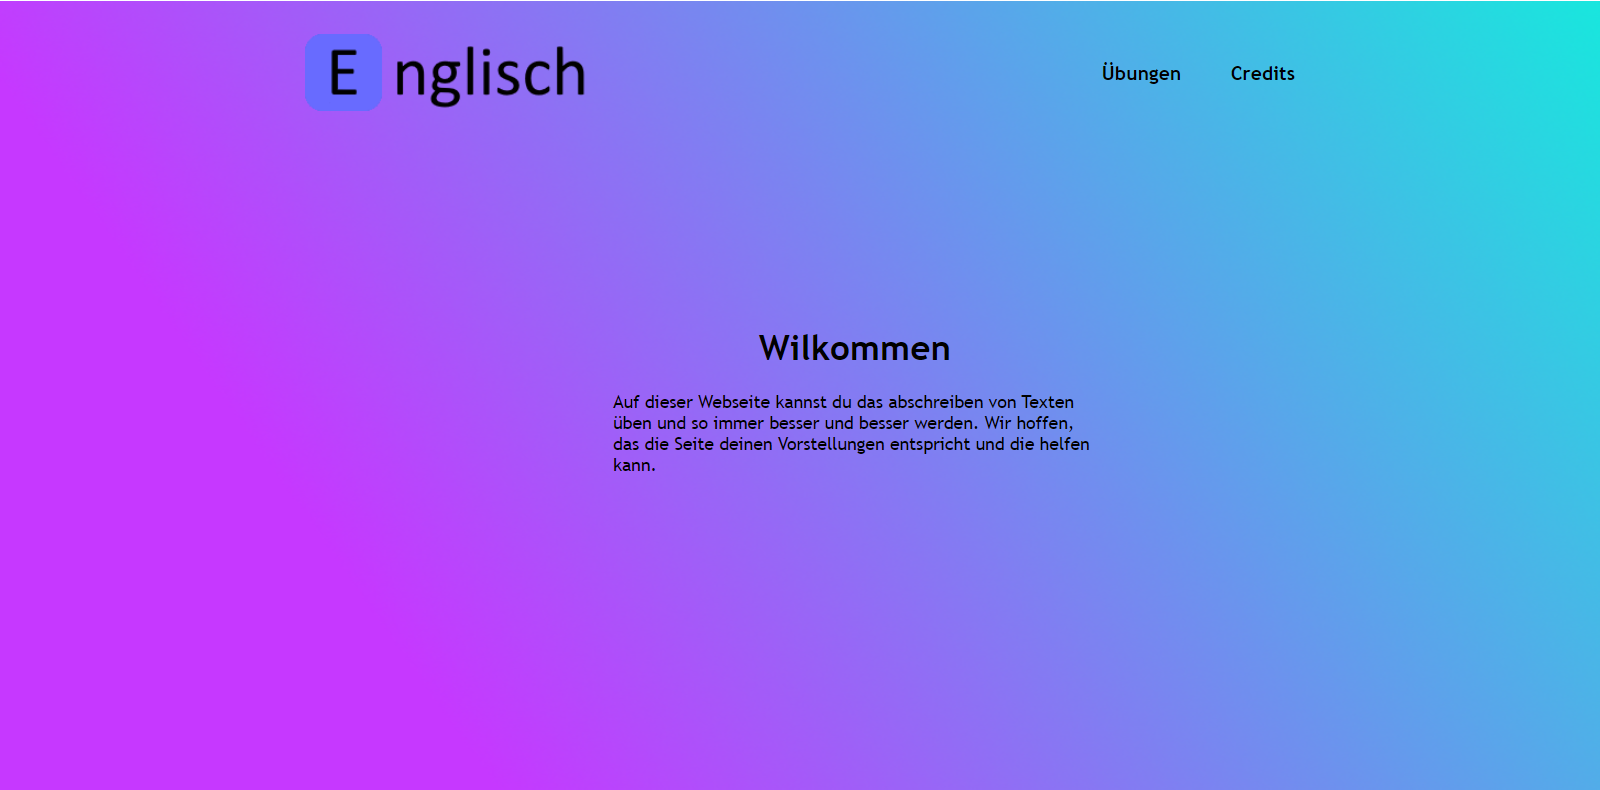
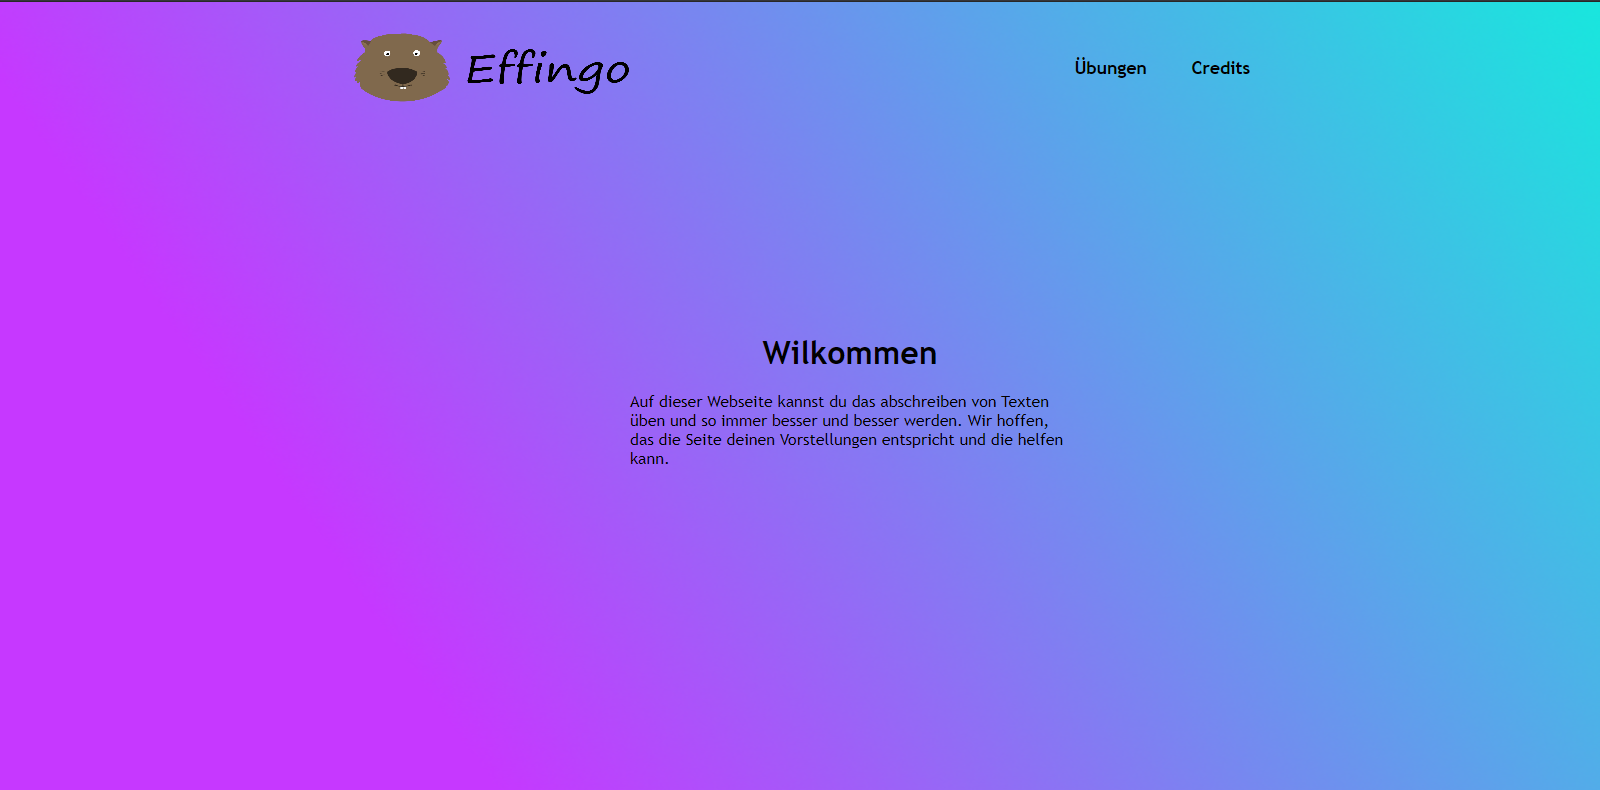
Update 2.0
Name
Logo
Handy Version
Spaceerror

diff --git a/Website/style.css b/Website/style.css
@@ -1,13 +1,26 @@
+select{
+	border:2px solid #0080FF;
+	background: transparent;	
+	margin-bottom: 40 px;
+}
+
+input{
+	border:2px solid #0080FF;
+	background: transparent;	
+}
+
+
+
 textarea{
-	  padding:10px;
-	  width:25em;
-	  font-size:2em;
-	  margin:50px auto;
-	  display:block;
-	  border-radius:10px;
-	  border:6px solid #0080FF;	  
-	  min-height:6em;
-	  background: transparent;
+	padding:10px;
+	width:25em;
+	font-size:2em;
+	margin:50px auto;
+	display:block;
+	border-radius:10px;
+	border:6px solid #0080FF;	  
+	min-height:6em;
+	background: transparent;
 }
 .win{
 	color: #00FF00;

diff --git a/Website/check.js b/Website/check.js
@@ -1,4 +1,7 @@
-window.addEventListener("keypress", Check, false);
+$(document).on('keyup', function () {
+    Check();
+});
+
 fehler = 0
 function Check(){
 	text = document.getElementById("originalText").value

diff --git a/Website/view_list_uebungen.inc.php b/Website/view_list_uebungen.inc.php
@@ -1,8 +1,42 @@
 <div class="container">
 	<div class="row col col-12">
 		<center><h1>Übungen</h1></center><br>
+
+<form method="POST">
+		<center>
+		<select name="class" id="class">
+			<option value="" disabled selected>--Klasse--</option>
+			<option value="5">Klasse 5</option>
+			<option value="6">Klasse 6</option>
+			<option value="7">Klasse 7</option>
+			<option value="8">Klasse 8</option>
+			<option value="9">Klasse 9</option>
+			<option value="10">Klasse 10</option>
+			<option value="11">Klasse 11</option>
+			<option value="12">Klasse 12</option>
+		</select>
+		</center>
+		<center><input type="submit" name="submit" value="Suchen"></center>
+</form>
+
+
 <?php
-$sql = "SELECT * FROM texts ORDER BY id;";
+$selected = 0;
+    if(isset($_POST['submit'])){
+		if(!empty($_POST['class'])) {
+			$selected = $_POST['class'];
+		}
+    }
+?>
+
+
+
+<?php
+if($selected != 0){
+	$sql = "SELECT * FROM texts WHERE class = ".$selected." ORDER BY id;";
+}else{
+	$sql = "SELECT * FROM texts ORDER BY id;";
+}
 $res = mysql_query($sql);
 while($row = mysql_fetch_assoc($res)) 
 {

diff --git a/Website/admin/view_edit_text.inc.php b/Website/admin/view_edit_text.inc.php
@@ -15,6 +15,7 @@ if(!empty($_REQUEST['id'])) {
 		// Speichern
 		$sql = "UPDATE texts SET
 			`name`    = ".m($_POST['name']).",
+			`class`    = ".intval($_POST['class']).",
 			`value`    = ".m($_POST['text'])."
 			WHERE id=".intval($id);
 
@@ -23,10 +24,11 @@ if(!empty($_REQUEST['id'])) {
 	}
 } else {
 	$id = 0;
-
+	
 	if(!empty($_POST['save'])) {
 		$sql = "INSERT INTO texts SET
 			`name`    = ".m($_POST['name']).",
+			`class`    = ".intval($_POST['class']).",
 			`value`    = ".m($_POST['text']);
 
 		if(!mysql_query($sql)) die(mysql_error());
@@ -43,6 +45,10 @@ $row = mysql_fetch_assoc($res);
 	<div class="form-group">
 		<label>Name</label>
 		<input class="form-control" type="text" name="name" value="<?php echo $row['name']; ?>">
+	</div>
+	<div class="form-group">
+		<label>Klasse</label>
+		<input class="form-control" type="number" name="class" value="<?php echo $row['class']; ?>">
 	</div>
 	<div class="form-group">
 		<label>Text</label>

diff --git a/Website/admin/index.php b/Website/admin/index.php
@@ -68,7 +68,7 @@ if($login_ok)
 		<div class="col-md-12 column">
 			<nav class="navbar navbar-default" role="navigation">
 				<div class="navbar-header">
-					 <button type="button" class="navbar-toggle" data-toggle="collapse" data-target="#bs-example-navbar-collapse-1"> <span class="sr-only">Toggle navigation</span><span class="icon-bar"></span><span class="icon-bar"></span><span class="icon-bar"></span></button> <a class="navbar-brand" href="../index.php">Englisch</a>
+					 <button type="button" class="navbar-toggle" data-toggle="collapse" data-target="#bs-example-navbar-collapse-1"> <span class="sr-only">Toggle navigation</span><span class="icon-bar"></span><span class="icon-bar"></span><span class="icon-bar"></span></button> <a class="navbar-brand" href="../index.php">Effingo</a>
 				</div>
 				
 				<div class="collapse navbar-collapse" id="bs-example-navbar-collapse-1">

diff --git a/Website/view_uebung.inc.php b/Website/view_uebung.inc.php
@@ -22,7 +22,7 @@ if(!empty($_REQUEST['id'])) {
 	
 	</div class="row col col-12">
 		<script src="https://cdnjs.cloudflare.com/ajax/libs/jquery/3.3.1/jquery.min.js"></script>
-		<textarea  id="neuerTextIn" id="no-copy-paste" autofocus placeholder="Bitte hier eingeben" ></textarea>
+		<textarea id="neuerTextIn" id="no-copy-paste" autofocus placeholder="Bitte hier eingeben" ></textarea>
 	</div>
 
 

diff --git a/Website/admin/view_list_texts.inc.php b/Website/admin/view_list_texts.inc.php
@@ -32,6 +32,7 @@ $res = mysql_query($sql);
 		<thead>
 			<tr>
 				<th>Name</th>
+				<th>Klasse</th>
 				<th>Text</th>
 				<th></th>
 			</tr>
@@ -43,6 +44,7 @@ while($row = mysql_fetch_assoc($res))
 ?>
 			<tr>
 				<td><?php echo $row['name']; ?></td>
+				<td><?php echo $row['class']; ?></td>
 				<td><?php echo $row['value']; ?></td>
 				<td>
 					<div class="btn-group">

diff --git a/Website/admin/view_home.inc.php b/Website/admin/view_home.inc.php
@@ -1,7 +1,7 @@
 <?php if(!defined("IN_ADMIN")) die; ?>
 <div class="col-md-12 column">
 	<div class="jumbotron">
-		<h1>Englisch</h1>
+		<h1>Effingo</h1>
 		<p>Willkommen im Adminisrationsbereich!</p>
 	</div>
 </div>

diff --git a/Website/index.php b/Website/index.php
@@ -6,7 +6,7 @@ require "common.inc.php";
 <html lang="de">
 <head>
 	<meta charset="utf-8">
-	<title>Englisch</title>
+	<title>Effingo</title>
 
 	<meta name="author" content="Sebastian Drebenstedt">
 	

diff --git a/Website/view_credits.inc.php b/Website/view_credits.inc.php
@@ -6,7 +6,7 @@
 		<p>Felix Heydick</p><br>
 		<h3>Programmierung<br>und Design:</h3>
 		<p>Sebastian Drebenstedt</p><br>
-		<h3>Logo</h3>
+		<h3>Logo:</h3>
 		<p>Marlen Bieler</p>
 		</center>
 	</div>
